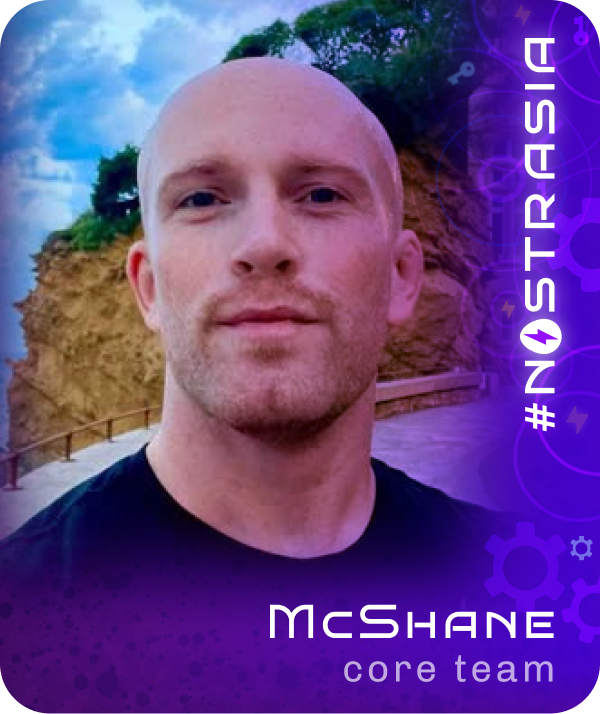
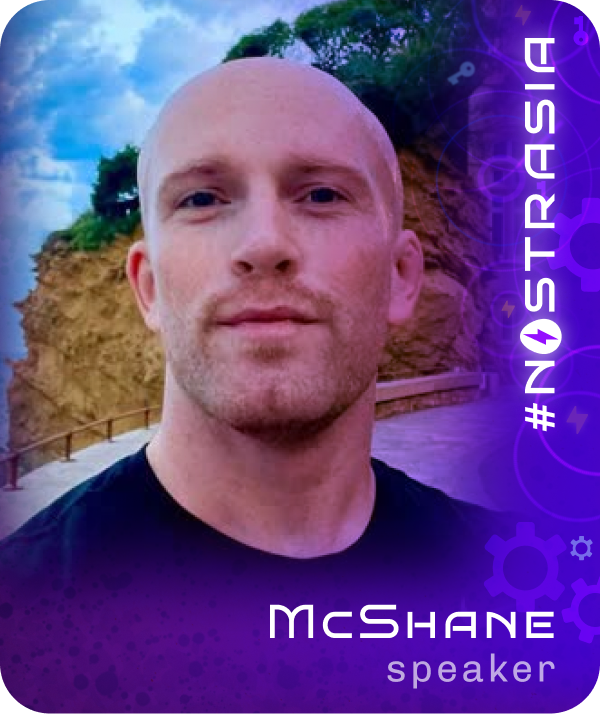
nostrasia updates
added speakers
changed japanese word for "register" - thanks to yutaro

Changed region(s): [[0.57, 0.9244, 0.93, 0.9552]]

diff --git a/tracks/speakers/index.html b/tracks/speakers/index.html
@@ -6,7 +6,7 @@
       <meta name="viewport" content="width=device-width, initial-scale=1">
       <meta name="Keywords" content="nostr, nostrasia, speakers">
       <meta name="Description" content="">
-      <meta property="og:image" content="https://nostr.world/images/nostr-world-social.png">
+      <meta property="og:image" content="https://nostr.world/assets/images/social/social-nostrasia-speakers.png">
       <meta property="og:image:type" content="image/png">
       <meta property="og:image:width" content="1280">
       <meta property="og:image:height" content="640">
@@ -69,10 +69,10 @@
             <a href="https://nostr.com/npub1c878wu04lfqcl5avfy3p5x83ndpvedaxv0dg7pxthakq3jqdyzcs2n8avm" target="new" alt="on nostr"><img src="../../assets/images/nostrasia/speakers/nostrasia-speaker-ben-arc.png" alt="nostrasia speaker: Ben Arc" class="w3-image"></a>
           </div>
       </div>
-        <!--- darashi --->
-        <div class="w3-third w3-display-container w3-margin-bottom" id="darashi">
+        <!--- cameri --->
+        <div class="w3-third w3-display-container w3-margin-bottom" id="cameri">
           <div class="w3-container">
-            <a href="https://nostr.com/npub1q7qyk7rvdga5qzmmyrvmlj29qd0n45snmfuhkrzsj4rk0sm4c4psvqwt9c" target="new" alt="on nostr"><img src="../../assets/images/nostrasia/speakers/nostrasia-speaker-darashi.png" alt="nostrasia speaker: Darashi" class="w3-image"></a>
+            <a href="https://nostr.com/npub1qqqqqqyz0la2jjl752yv8h7wgs3v098mh9nztd4nr6gynaef6uqqt0n47m" target="new" alt="on nostr"><img src="../../assets/images/nostrasia/speakers/nostrasia-speaker-cameri.png" alt="nostrasia speaker: Cameri" class="w3-image"></a>
           </div>
       </div>
   </div>
@@ -80,6 +80,12 @@
    <!---Speakers Row 2 --->
       <div class="w3-row-padding w3-padding-0" style="margin:0 -16px">
         <div class="w3-container w3-display-container w3-margin-bottom">
+        <!--- darashi --->
+        <div class="w3-third w3-display-container w3-margin-bottom" id="darashi">
+          <div class="w3-container">
+            <a href="https://nostr.com/npub1q7qyk7rvdga5qzmmyrvmlj29qd0n45snmfuhkrzsj4rk0sm4c4psvqwt9c" target="new" alt="on nostr"><img src="../../assets/images/nostrasia/speakers/nostrasia-speaker-darashi.png" alt="nostrasia speaker: Darashi" class="w3-image"></a>
+          </div>
+      </div>
           <!--- snowden --->
           <div class="w3-third w3-margin-bottom" id="edward-snowden">
             <div class="w3-container">
@@ -92,17 +98,17 @@
             <a href="https://nostr.com/npub1a7n2h5y3gt90y00mwrknhx74fyzzjqw25ehkscje58x9tfyhqd5snyvfnu" target="new" alt="on nostr"><img src="../../assets/images/nostrasia/speakers/nostrasia-speaker-elidy.png" alt="nostrasia speaker: elidy" class="w3-image"></a>
           </div>
       </div>
+  </div>
+  </div>
+   <!---Speakers Row 3 --->
+      <div class="w3-row-padding w3-padding-0" style="margin:0 -16px">
+        <div class="w3-container w3-display-container w3-margin-bottom">
       <!--- elsat --->
         <div class="w3-third w3-display-container w3-margin-bottom" id="elsat">
           <div class="w3-container">
             <a href="https://nostr.com/npub1zafcms4xya5ap9zr7xxr0jlrtrattwlesytn2s42030lzu0dwlzqpd26k5" target="new" alt="on nostr"><img src="../../assets/images/nostrasia/speakers/nostrasia-speaker-elsat.png" alt="nostrasia speaker: elsat" class="w3-image"></a>
           </div>
       </div>
-  </div>
-  </div>
-   <!---Speakers Row 3 --->
-      <div class="w3-row-padding w3-padding-0" style="margin:0 -16px">
-        <div class="w3-container w3-display-container w3-margin-bottom">
           <!--- fishcake --->
           <div class="w3-third w3-margin-bottom" id="fishcake">
             <div class="w3-container">
@@ -115,17 +121,17 @@
             <a href="https://nostr.com/npub1jlrs53pkdfjnts29kveljul2sm0actt6n8dxrrzqcersttvcuv3qdjynqn" target="new" alt="on nostr"><img src="../../assets/images/nostrasia/speakers/nostrasia-speaker-hodlbod.png" alt="nostrasia speaker: hodlbod" class="w3-image"></a>
           </div>
       </div>
+  </div>
+  </div>
+     <!---Speakers Row 4 --->
+      <div class="w3-row-padding w3-padding-0" style="margin:0 -16px">
+        <div class="w3-container w3-display-container w3-margin-bottom">
         <!--- jack --->
         <div class="w3-third w3-display-container w3-margin-bottom" id="jack">
           <div class="w3-container">
             <a href="https://nostr.com/npub1sg6plzptd64u62a878hep2kev88swjh3tw00gjsfl8f237lmu63q0uf63m" target="new" alt="on nostr"><img src="../../assets/images/nostrasia/speakers/nostrasia-speaker-jack-dorsey.png" alt="nostrasia speaker: jack" class="w3-image"></a>
           </div>
       </div>
-  </div>
-  </div>
-     <!---Speakers Row 4 --->
-      <div class="w3-row-padding w3-padding-0" style="margin:0 -16px">
-        <div class="w3-container w3-display-container w3-margin-bottom">
           <!--- jeffg --->
           <div class="w3-third w3-margin-bottom" id="jeffg">
             <div class="w3-container">
@@ -138,17 +144,17 @@
             <a href="https://nostr.com/npub1k0jrarx8um0lyw3nmysn50539ky4k8p7gfgzgrsvn8d7lccx3d0s38dczd" target="new" alt="on nostr"><img src="../../assets/images/nostrasia/speakers/nostrasia-speaker-kojira.png" alt="nostrasia speaker: kojira" class="w3-image"></a>
           </div>
       </div>
+  </div>
+  </div>
+       <!---Speakers Row 5 --->
+      <div class="w3-row-padding w3-padding-0" style="margin:0 -16px">
+        <div class="w3-container w3-display-container w3-margin-bottom">
         <!--- kwinten --->
         <div class="w3-third w3-display-container w3-margin-bottom" id="kwinten">
           <div class="w3-container">
             <a href="https://nostr.com/npub13sajvl5ak6cpz4ycesl0e5v869r5sey5pt50l9mcy6uas0fqtpmscth4np" target="new" alt="on nostr"><img src="../../assets/images/nostrasia/speakers/nostrasia-speaker-kwinten.png" alt="nostrasia speaker: kwinten" class="w3-image"></a>
           </div>
       </div>
-  </div>
-  </div>
-       <!---Speakers Row 5 --->
-      <div class="w3-row-padding w3-padding-0" style="margin:0 -16px">
-        <div class="w3-container w3-display-container w3-margin-bottom">
           <!--- marce --->
           <div class="w3-third w3-margin-bottom" id="marce">
             <div class="w3-container">
@@ -161,23 +167,34 @@
             <a href="https://nostr.com/npub1g53mukxnjkcmr94fhryzkqutdz2ukq4ks0gvy5af25rgmwsl4ngq43drvk" target="new" alt="on nostr"><img src="../../assets/images/nostrasia/speakers/nostrasia-speaker-martti-sirius-malmi.png" alt="nostrasia speaker: martti sirius malmi" class="w3-image"></a>
           </div>
       </div>
+  </div>
+  </div>
+       <!---Speakers Row 6 --->
+      <div class="w3-row-padding w3-padding-0" style="margin:0 -16px">
+        <div class="w3-container w3-display-container w3-margin-bottom">
         <!--- max demarco --->
         <div class="w3-third w3-display-container w3-margin-bottom" id="max-demarco">
           <div class="w3-container">
             <a href="https://nostr.com/npub1lelkh3hhxw9hdwlcpk6q9t0xt9f7yze0y0nxazvzqjmre3p98x3sthkvyz" target="new" alt="on nostr"><img src="../../assets/images/nostrasia/speakers/nostrasia-speaker-max-demarco.png" alt="nostrasia speaker: max demarco" class="w3-image"></a>
           </div>
       </div>
-  </div>
-  </div>
-       <!---Speakers Row 6 --->
-      <div class="w3-row-padding w3-padding-0" style="margin:0 -16px">
-        <div class="w3-container w3-display-container w3-margin-bottom">
+        <!--- max webster --->
+        <div class="w3-third w3-display-container w3-margin-bottom" id="max-webster">
+          <div class="w3-container">
+            <a href="https://nostr.com/npub18lzls4f6h46n43revlzvg6x06z8geww7uudhncfdttdtypduqnfsagugm3" target="new" alt="on nostr"><img src="../../assets/images/nostrasia/speakers/nostrasia-speaker-max-webster.png" alt="nostrasia speaker: max webster" class="w3-image"></a>
+          </div>
+      </div>
           <!--- mcshane --->
           <div class="w3-third w3-margin-bottom" id="mcshane">
             <div class="w3-container">
               <a href="https://nostr.com/npub16vrkgd28wq6n0h77lqgu8h4fdu0eapxgyj0zqq6ngfvjf2vs3nuq5mp2va" target="new" alt="on nostr"><img src="../../assets/images/nostrasia/speakers/nostrasia-speaker-mcshane.png" alt="nostrasia speaker: mcshane" class="w3-image"></a>
             </div>
         </div>
+  </div>
+  </div>
+       <!---Speakers Row 7 --->
+      <div class="w3-row-padding w3-padding-0" style="margin:0 -16px">
+        <div class="w3-container w3-display-container w3-margin-bottom">
         <!--- michellez --->
         <div class="w3-third w3-display-container w3-margin-bottom" id="michellez">
           <div class="w3-container">
@@ -190,16 +207,18 @@
             <a href="https://nostr.com/npub16c0nh3dnadzqpm76uctf5hqhe2lny344zsmpm6feee9p5rdxaa9q586nvr" target="new" alt="on nostr"><img src="../../assets/images/nostrasia/speakers/nostrasia-speaker-miljan.png" alt="nostrasia speaker: miljan" class="w3-image"></a>
           </div>
       </div>
-  </div>
-  </div>
-       <!---Speakers Row 7 --->
-      <div class="w3-row-padding w3-padding-0" style="margin:0 -16px">
-        <div class="w3-container w3-display-container w3-margin-bottom">
+          <!--- nabismo prime --->
           <div class="w3-third w3-margin-bottom" id="nabismo-prime">
             <div class="w3-container">
               <a href="https://nostr.com/npub1g5pm4gf8hh7skp2rsnw9h2pvkr32sdnuhkcx9yte7qxmrg6v4txqqudjqv" target="new" alt="on nostr"><img src="../../assets/images/nostrasia/speakers/nostrasia-speaker-nabismo-prime.png" alt="nostrasia speaker: nabismo prime" class="w3-image"></a>
             </div>
         </div>
+        
+  </div>
+  </div>
+       <!---Speakers Row 8 --->
+      <div class="w3-row-padding w3-padding-0" style="margin:0 -16px">
+        <div class="w3-container w3-display-container w3-margin-bottom">
         <!--- nvk --->
         <div class="w3-third w3-display-container w3-margin-bottom" id="nvk">
           <div class="w3-container">
@@ -212,21 +231,21 @@
             <a href="https://nostr.com/npub1l2vyh47mk2p0qlsku7hg0vn29faehy9hy34ygaclpn66ukqp3afqutajft" target="new" alt="on nostr"><img src="../../assets/images/nostrasia/speakers/nostrasia-speaker-pablof7z.png" alt="nostrasia speaker: pablof7z" class="w3-image"></a>
           </div>
       </div>
-  </div>
-  </div>
-       <!---Speakers Row 8 --->
-      <div class="w3-row-padding w3-padding-0" style="margin:0 -16px">
-        <div class="w3-container w3-display-container w3-margin-bottom">
           <!--- paco --->
           <div class="w3-third w3-margin-bottom" id="paco">
             <div class="w3-container">
               <a href="https://nostr.com/npub1v67clmf4jrezn8hsz28434nc0y5fu65e5esws04djnl2kasxl5tskjmjjk" target="new" alt="on nostr"><img src="../../assets/images/nostrasia/speakers/nostrasia-speaker-paco.png" alt="nostrasia speaker: paco" class="w3-image"></a>
             </div>
         </div>
-        <!--- rockstar --->
-        <div class="w3-third w3-display-container w3-margin-bottom" id="uncle-rockstar">
+  </div>
+  </div>
+       <!---Speakers Row 9 --->
+      <div class="w3-row-padding w3-padding-0" style="margin:0 -16px">
+        <div class="w3-container w3-display-container w3-margin-bottom">
+        <!--- rabble --->
+        <div class="w3-third w3-display-container w3-margin-bottom" id="rabble">
           <div class="w3-container">
-            <a href="https://nostr.com/npub1j8y6tcdfw3q3f3h794s6un0gyc5742s0k5h5s2yqj0r70cpklqeqjavrvg" target="new" alt="on nostr"><img src="../../assets/images/nostrasia/speakers/nostrasia-speaker-uncle-rockstar.png" alt="nostrasia speaker: uncle rockstar" class="w3-image"></a>
+            <a href="https://nostr.com/npub1wmr34t36fy03m8hvgl96zl3znndyzyaqhwmwdtshwmtkg03fetaqhjg240" target="new" alt="on nostr"><img src="../../assets/images/nostrasia/speakers/nostrasia-speaker-rabble.png" alt="nostrasia speaker: rabble" class="w3-image"></a>
           </div>
         </div>
         <!--- robo358 --->
@@ -235,16 +254,22 @@
             <a href="https://nostr.com/npub147ccm75um0zkn0lr9fg9wrag2g6yxfw234fpmhdwuvaqjyegrhgs46t2td" target="new" alt="on nostr"><img src="../../assets/images/nostrasia/speakers/nostrasia-speaker-robo358.png" alt="nostrasia spaker: robo358" class="w3-image"></a>
           </div>
       </div>
-  </div>
-  </div>
-       <!---Speakers Row 9 --->
-      <div class="w3-row-padding w3-padding-0" style="margin:0 -16px">
-        <div class="w3-container w3-display-container w3-margin-bottom">
           <!--- sherry --->
           <div class="w3-third w3-margin-bottom" id="sherry">
             <div class="w3-container">
               <a href="https://nostr.com/npub1ejxswthae3nkljavznmv66p9ahp4wmj4adux525htmsrff4qym9sz2t3tv" target="new" alt="on nostr"><img src="../../assets/images/nostrasia/speakers/nostrasia-speaker-sherry.png" alt="nostrasia speaker: paco" class="w3-image"></a>
             </div>
+        </div>
+  </div>
+  </div>
+       <!---Speakers Row 10 --->
+      <div class="w3-row-padding w3-padding-0" style="margin:0 -16px">
+        <div class="w3-container w3-display-container w3-margin-bottom">
+        <!--- uncle rockstar --->
+        <div class="w3-third w3-display-container w3-margin-bottom" id="uncle-rockstar">
+          <div class="w3-container">
+            <a href="https://nostr.com/npub1j8y6tcdfw3q3f3h794s6un0gyc5742s0k5h5s2yqj0r70cpklqeqjavrvg" target="new" alt="on nostr"><img src="../../assets/images/nostrasia/speakers/nostrasia-speaker-uncle-rockstar.png" alt="nostrasia speaker: uncle rockstar" class="w3-image"></a>
+          </div>
         </div>
         <!--- shion --->
         <div class="w3-third w3-display-container w3-margin-bottom" id="shion">
@@ -260,7 +285,7 @@
       </div>
   </div>
   </div>
-       <!---Speakers Row 10 --->
+       <!---Speakers Row 11--->
       <div class="w3-row-padding w3-padding-0" style="margin:0 -16px">
         <div class="w3-container w3-display-container w3-margin-bottom">
           <!--- terry --->
@@ -283,7 +308,7 @@
         </div>
   </div>
   </div>
-       <!---Speakers Row 11--->
+       <!---Speakers Row 12--->
       <div class="w3-row-padding w3-padding-0" style="margin:0 -16px">
         <div class="w3-container w3-display-container w3-margin-bottom">
           <!--- will --->
@@ -301,7 +326,7 @@
         <p class="s3-large w3-center">November 1 - 3</p>
         <p class="w3-margin-top w3-center"><a href="https://tally.so/r/meM1yx" target="new" class="w3-btn w3-ripple w3-white w3-hover-cyan w3-round-xlarge w3-hover-opacity-off"><span class="w3-large">Register</span></a>
   <!--- japanese registration --->
-        <a href="https://tally.so/r/mBKEkA" target="new" class="w3-btn w3-ripple w3-black w3-round-xlarge w3-hover-opacity-off"><span class="w3-large">レジスタ</span></a>
+        <a href="https://tally.so/r/mBKEkA" target="new" class="w3-btn w3-ripple w3-black w3-round-xlarge w3-hover-opacity-off"><span class="w3-large">参加登録</span></a>
   <!--- chinese registration --->
         <a href="https://tally.so/r/wb9Zx2" target="new" class="w3-btn w3-ripple w3-black w3-round-xlarge w3-hover-opacity-off"><span class="w3-large">注册</span></a></p><br>
   </div><br><br>

diff --git a/behind-the-scenes/index.html b/behind-the-scenes/index.html
@@ -120,7 +120,7 @@
         <p class="s3-large w3-center">November 1 - 3</p>
         <p class="w3-margin-top w3-center"><a href="https://tally.so/r/meM1yx" target="new" class="w3-btn w3-ripple w3-white w3-hover-cyan w3-round-xlarge w3-hover-opacity-off"><span class="w3-large">Register</span></a>
   <!--- japanese registration --->
-        <a href="https://tally.so/r/mBKEkA" target="new" class="w3-btn w3-ripple w3-black w3-round-xlarge w3-hover-opacity-off"><span class="w3-large">レジスタ</span></a>
+        <a href="https://tally.so/r/mBKEkA" target="new" class="w3-btn w3-ripple w3-black w3-round-xlarge w3-hover-opacity-off"><span class="w3-large">参加登録</span></a>
   <!--- chinese registration --->
         <a href="https://tally.so/r/wb9Zx2" target="new" class="w3-btn w3-ripple w3-black w3-round-xlarge w3-hover-opacity-off"><span class="w3-large">注册</span></a></p><br>
   </div><br><br>

diff --git a/hackathon/index.html b/hackathon/index.html
@@ -163,7 +163,7 @@
         <p class="s3-large w3-center">November 1 - 3</p>
         <p class="w3-margin-top w3-center"><a href="https://tally.so/r/meM1yx" target="new" class="w3-btn w3-ripple w3-white w3-hover-cyan w3-round-xlarge w3-hover-opacity-off"><span class="w3-large">Register</span></a>
   <!--- japanese registration --->
-        <a href="https://tally.so/r/mBKEkA" target="new" class="w3-btn w3-ripple w3-black w3-round-xlarge w3-hover-opacity-off"><span class="w3-large">レジスタ</span></a>
+        <a href="https://tally.so/r/mBKEkA" target="new" class="w3-btn w3-ripple w3-black w3-round-xlarge w3-hover-opacity-off"><span class="w3-large">参加登録</span></a>
   <!--- chinese registration --->
         <a href="https://tally.so/r/wb9Zx2" target="new" class="w3-btn w3-ripple w3-black w3-round-xlarge w3-hover-opacity-off"><span class="w3-large">注册</span></a></p><br>
   </div><br><br>

diff --git a/index.html b/index.html
@@ -56,7 +56,7 @@
       <p class="w3-large no-space w3-center w3-hide-medium w3-hide-large">nov 1-3</p>
       <p class="w3-margin-top w3-center"><a href="https://tally.so/r/meM1yx" target="new" class="w3-btn w3-ripple w3-white w3-round-xlarge w3-hover-opacity-off"><span class="w3-large">Register</span></a>
 <!--- japanese registration --->
-      <a href="https://tally.so/r/mBKEkA" target="new" class="w3-btn w3-ripple w3-black w3-round-xlarge w3-hover-opacity-off"><span class="w3-large">レジスタ</span></a>
+      <a href="https://tally.so/r/mBKEkA" target="new" class="w3-btn w3-ripple w3-black w3-round-xlarge w3-hover-opacity-off"><span class="w3-large">参加登録</span></a>
 <!--- chinese registration --->
       <a href="https://tally.so/r/wb9Zx2" target="new" class="w3-btn w3-ripple w3-black w3-round-xlarge w3-hover-opacity-off"><span class="w3-large">注册</span></a></p><br>
 
